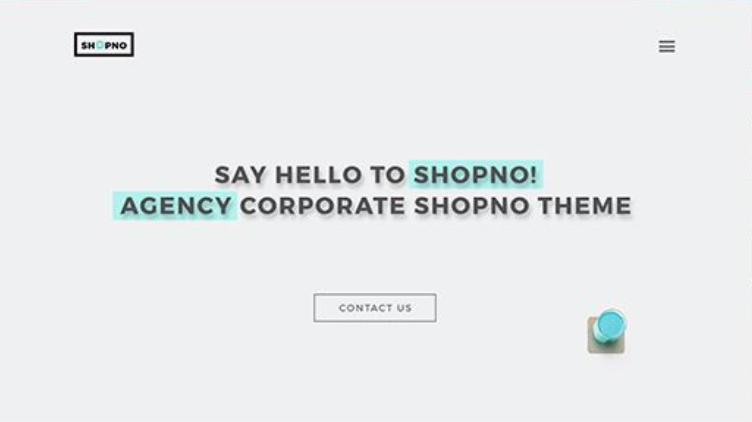
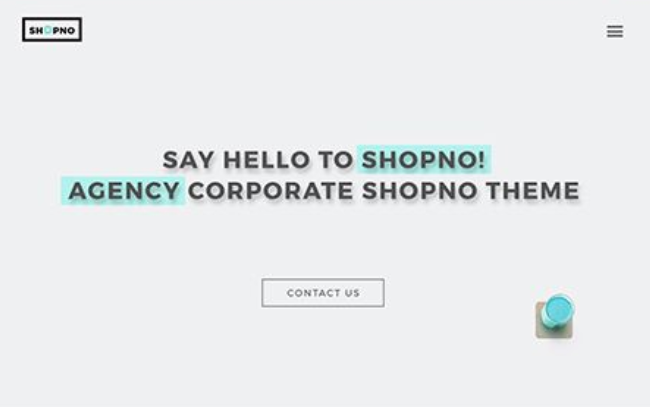
fourth step (responsive)

diff --git a/index.html b/index.html
@@ -16,9 +16,6 @@
                 <img src="img/logo.svg" alt="Glo Academy" class="logo wow fadeInUp" data-wow-delay="0s">
                 <div class="social-links wow fadeInDown" data-wow-delay="0.2s">
                     <a href="https://github.com/uguha" class="social-link"><img src="img/social/github.svg" alt="github"></a>
-                    <a href="https://twitter.com/cherryglitta" class="social-link"><img src="img/social/twitter.svg" alt="twitter"></a>
-                    <a href="https://www.instagram.com/cherryglitta/" class="social-link"><img src="img/social/instagram.svg" alt="instagram"></a>
-                    <a href="https://www.facebook.com/uguuha/" class="social-link"><img src="img/social/facebook.svg" alt="facebook"></a>
                 </div>
                 <!-- /.social-links -->
             </div>
@@ -28,8 +25,8 @@
                     <span class="hero-subtitle wow fadeInRight" data-wow-delay="0.4s">Фрилансер</span>
                     <h1 class="hero-title wow fadeInLeft" data-wow-delay="0.6s">Валерия Вишневская</h1>
                     <p class="hero-description wow fadeInRight" data-wow-delay="0.8s">Разрабатываю сайты для малого и среднего бизнеса. 
-                    У меня можно заказать дизайн и верстку небольшого сайта или интернет-магазина</p>
-                    <button class="btn hero-btn wow fadeInLeft" data-wow-delay="1s">Посмотреть портфолио</button>
+                    У меня можно заказать дизайн и верстку лендинга или интернет-магазина</p>
+                    <button class="btn hero-btn wow fadeInLeft" data-wow-delay="1s"><a href="#projects">Посмотреть портфолио</a></button>
                 </div>
                 <!-- /.hero-text -->
                 <div class="hero-avatar wow fadeIn" data-wow-delay="1.6s"></div>
@@ -82,6 +79,7 @@
         </section>
         <!-- /.features -->
         <section class="section projects">
+            <a name="projects"></a>
             <div class="container">
                 <h2 class="section-title">Последние проекты</h2>
 
@@ -209,16 +207,11 @@
                         <h4 class="form-title">Можете просто оставить заявку, я позвоню вам сегодня</h4>
                         <input type="text" class="input input-name" placeholder="Ваше имя">
                         <input type="phone" class="input input-phone" placeholder="Ваш телефон">
-                        <button class="btn form-btn">Бесплатная консультация</button>
+                        <button class="btn form-btn"><a href="https://t.me/uguha">Бесплатная консультация</a></button>
                     </form>
                     <!-- /.contacts-form -->
                     <div class="contacts-text">
                         <div class="contacts-data">
-                            <div class="contacts-phone wow rotateInDownLeft" data-wow-delay="0.4s">
-                                <h4 class="contact-title">Телефон</h4>
-                                <a href="tel:+79991234567" class="contacts-link">+7 999 123-45-67</a>
-                            </div>
-                            <!-- /.contacts-phone -->
                             <div class="contacts-mail wow rotateInDownRight" data-wow-delay="0.6s">
                                 <h4 class="contact-title">Почта</h4>
                                 <a href="mailto:valeriaviv@mail.ru" class="contacts-link">valeriaviv@mail.ru</a>
@@ -227,17 +220,12 @@
                             <div class="contacts-social wow rotateIn" data-wow-delay="0.8s">
                                 <h4 class="contact-title">Соцсети</h4>
                                 <a href="https://t.me/uguha" class="contacts-link">t.me/uguha</a>
-                                <a href="https://vk.com/uguuha" class="contacts-link">vk.me/uguuha</a>
-                                <a href="https://www.facebook.com/uguuha" class="contacts-link">fb.me/uguuha</a>
                             </div>
                             <!-- /.contacts-social -->
                         </div>
                         <!-- /.contacts-data -->
                         <div class="social-links wow rollIn" data-wow-delay="1s">
                             <a href="https://github.com/uguha" class="social-link"><img src="img/social/github.svg" alt="github"></a>
-                            <a href="https://twitter.com/cherryglitta" class="social-link"><img src="img/social/twitter.svg" alt="twitter"></a>
-                            <a href="https://www.instagram.com/cherryglitta/" class="social-link"><img src="img/social/instagram.svg" alt="instagram"></a>
-                            <a href="https://www.facebook.com/uguuha/" class="social-link"><img src="img/social/facebook.svg" alt="facebook"></a>
                         </div>
                         <!-- /.social-links -->
                         <a href="#" class="contacts-policy wow zoomIn" data-wow-delay="1.2s">Политика конфиденциальности</a>

diff --git a/css/style.css b/css/style.css
@@ -28,9 +28,16 @@ body{
     max-width: 100%;
     width: 285px;
 }
+.btn a{
+    color: #2E2E30;
+    display: block;
+    padding: 22px 0px;
+    text-decoration: none;
+}
 .container{
     margin: auto;
     max-width: 945px;
+    width: 90%;
 }
 .hero{
     background: linear-gradient(0.01deg, #000000 0.01%, rgba(0, 0, 0, 0) 95.44%);
@@ -115,7 +122,7 @@ body{
 }
 .features-item{
     flex-basis: 30%;
-    margin-bottom: 63px;
+    margin-bottom: 64px;
 }
 .features-text{
     font-size: 16px;
@@ -167,6 +174,7 @@ body{
     align-items: flex-start;
     display: flex;
     justify-content: space-between;
+    margin-right: 10px;
 }
 .project-subtitle{
     font-size: 18px;
@@ -288,6 +296,7 @@ body{
     font-weight: normal;
     line-height: 28px;
     padding: 18px 20px;
+    outline: none;
     padding-left: 50px;
     width: 100%;
 }
@@ -304,3 +313,137 @@ body{
     margin-bottom: 25px;
 }
 /* contacts */
+
+/* responsive */
+@media (max-width: 1100px){
+    .hero-avatar{
+        height: 300px;
+        width: 300px;
+    }
+}
+
+@media (max-width: 835px){
+    .contacts-block{
+        align-items: flex-start;
+        flex-direction: column;
+    }
+    .contacts-form{
+        margin-bottom: 60px;
+    }
+    .hero-avatar{
+        margin-bottom: 20px;
+    }
+    .hero-content{
+        flex-flow: column-reverse;
+    }
+    .hero-description{
+        max-width: 505px;
+        text-align: center;
+    }
+    .hero-text{
+        text-align: center;
+    }
+    .features-item{
+        flex-basis: 45%;
+    }
+    .project-image{
+        margin-bottom: 45px;
+    }
+    .project-slide{
+        flex-direction: column;
+    }
+}
+
+@media (max-width: 480px){
+    .contacts-form{
+        padding: 30px 18px 40px 18px;
+    }
+    .contacts-social{
+        flex-basis: 49%;
+    }
+    .contacts-social .contacts-link{
+        display: block;
+        margin: 0;
+        margin-bottom: 15px;
+    }
+    .contacts-policy{
+        margin-top: 30px;
+    }
+    .features-item{
+        flex-basis: 95%;
+        margin-bottom: 30px;
+    }
+    .features-text{
+        font-size: 14px;
+        line-height: 28px;
+    }
+    .features-title{
+        font-size: 18px;
+        line-height: 28px;
+    }
+    .form-title{
+        font-size: 15px;
+        line-height: 140%;
+    }
+    .hero-description{
+        font-size: 14px;
+        line-height: 140%;
+        max-width: 380px;
+    }
+    .hero-subtitle{
+        font-size: 16px;
+        line-height: 27px;
+    }
+    .hero-title{
+        font-size: 24px;
+        line-height: 28px;
+    }
+    .project-image{
+        max-width: 100%;
+        width: 100%;
+        max-width: 400px;
+    }
+    .project-title{
+        font-size: 18px;
+        line-height: 150%;
+    }
+    .project-time, .project-cost{
+        flex-basis: 100%;
+        margin-bottom: 35px;
+    }
+    .projects-pagination{
+        margin-top: 30px;
+    }
+    .section-title{
+        font-size: 19px;
+        line-height: 22px;
+        text-align: center;
+    }
+    .contacts{
+        padding-bottom: 50px;
+    }
+    .hero{
+        padding-bottom: 20px;
+    }
+    .features{
+        padding-bottom: 10px;
+    }
+    .projects{
+        padding-bottom: 10px;
+    }
+}
+
+@media (max-width: 375px){
+    .project-image{
+        max-width: 250px;
+    }
+}
+
+@media (max-width: 360px){
+    .hero-avatar{
+        border-width: 5px;
+        height: 250px;
+        width: 250px;
+    }
+}
+/* responsive */
